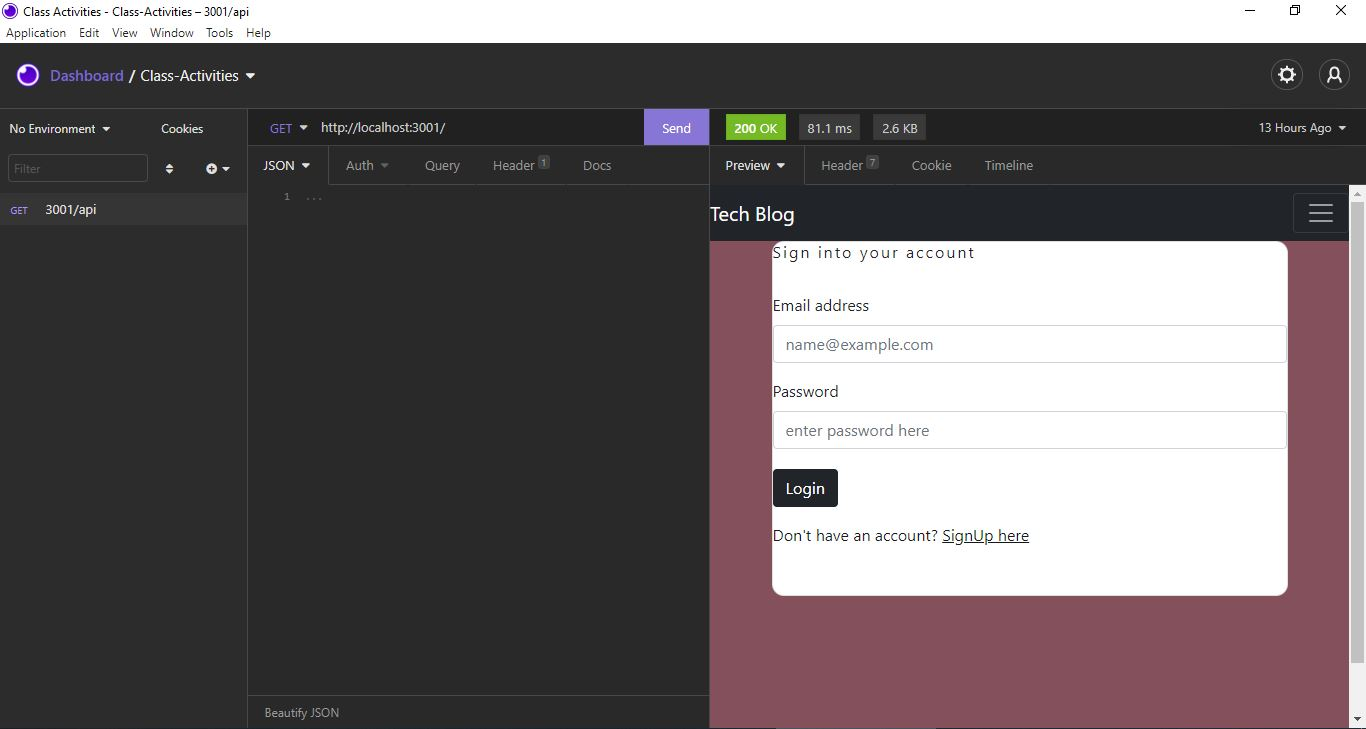
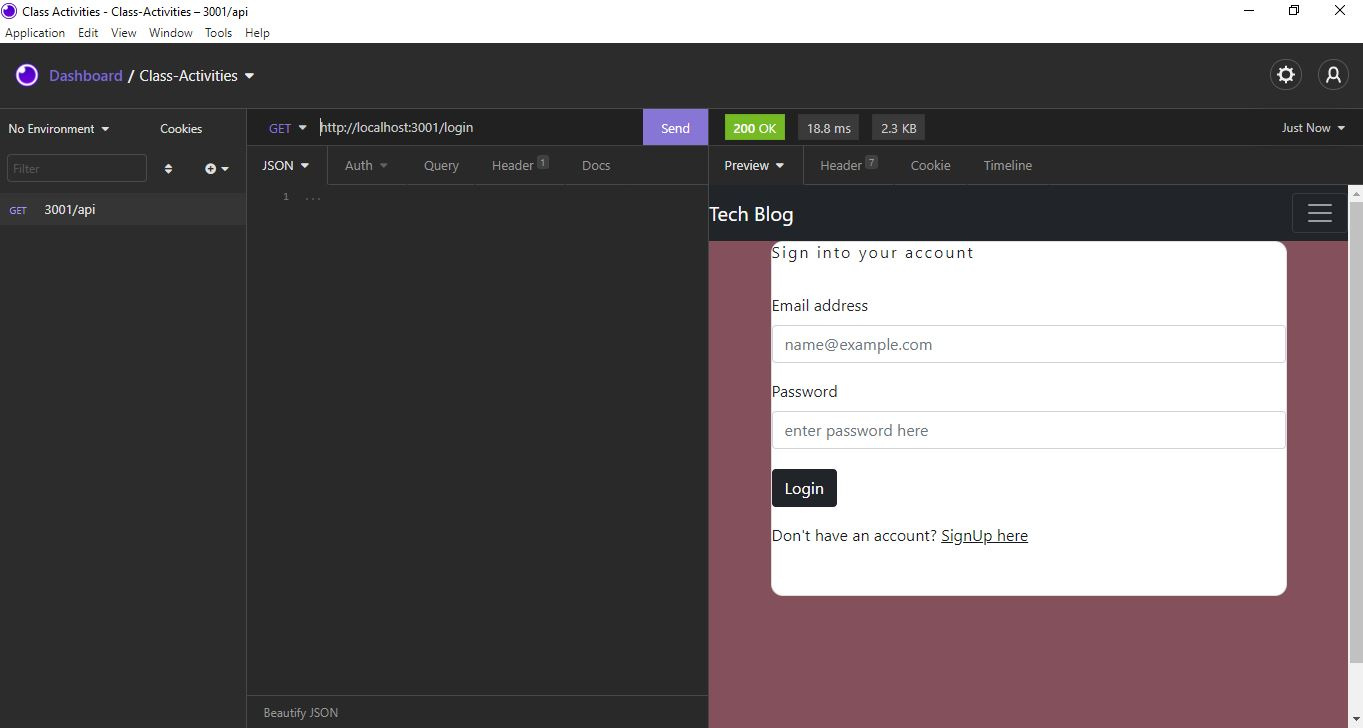
added insomnia /signup testing screenshot in README

diff --git a/server.js b/server.js
@@ -4,8 +4,9 @@ const express = require('express');
 const session = require('express-session');
 const exphbs = require('express-handlebars');
 const SequelizeStore = require('connect-session-sequelize')(session.Store);
-
+const model = require ('./models')
 const routes = require('./controllers');
+
 // Import sequelize connection
 const sequelize = require('./config/connection');
 const helpers = require('./utils/helpers');

diff --git a/README.md b/README.md
@@ -102,7 +102,8 @@ npm start
 
 * Uses the [Insomnia](https://insomnia.rest/download) to test the code.
 
-![insomnia](https://user-images.githubusercontent.com/78191579/139753024-1e9d2ca4-7009-4463-a6bf-0d806193e641.JPG)
+![insomnia](https://user-images.githubusercontent.com/78191579/139758429-e4f2bd9f-a909-467a-952c-f838b7bd76df.JPG)
+![insomnia2](https://user-images.githubusercontent.com/78191579/139759527-1b39c73c-0d00-4bf8-90f2-a13f233eebf7.JPG)
 
 # Questions
 
